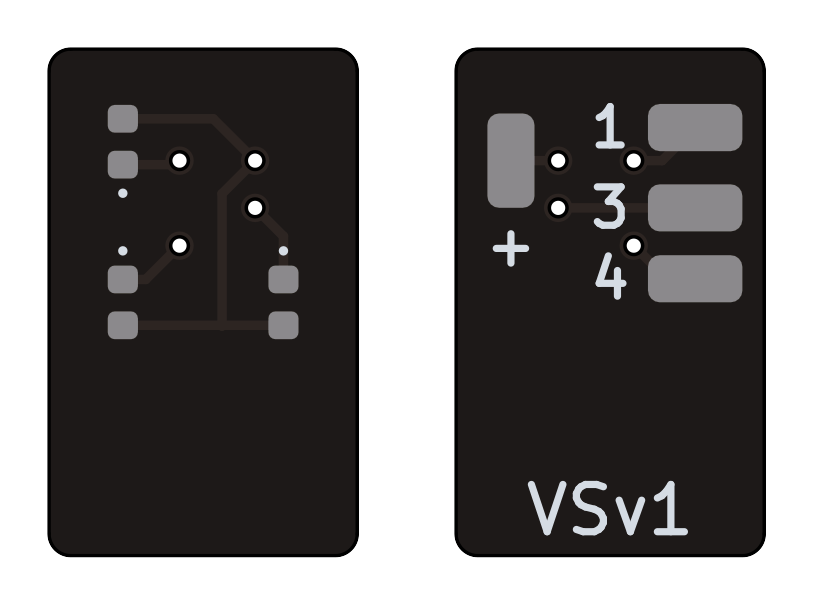
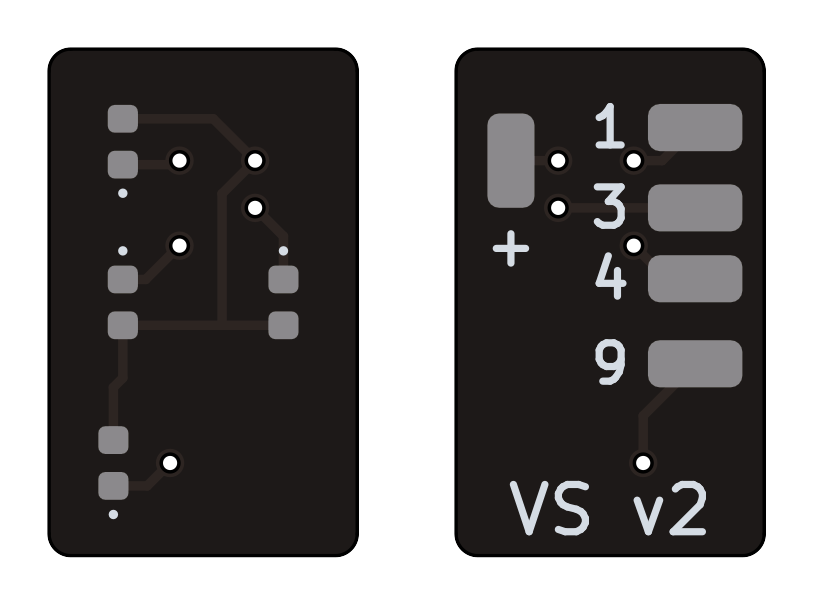
feat(VS): Add pre-signal repeater light

diff --git a/kicad/Vorsignal/README.md b/kicad/Vorsignal/README.md
@@ -1,4 +1,4 @@
-# Vorsignal VSv1
+# Vorsignal
 
 <p align="center"><img src="Vorsignal.png" width="300px"/></p>
 
@@ -10,12 +10,13 @@ Geeignet für KS-Vorsignale.
 | --------------------- | ------------------------------- |
 | ![Schema](schema.png) | ![Pin-Belegung](schema_vis.png) |
 
-| Referenz | Pin | LED      | Funktion                          |
-| -------- | --- | -------- | --------------------------------- |
-| J0       | +   |          | Stromversorgung (+)               |
-| J1       | 1   | Kaltweiß | Verkürzter Bremswegabstand (oben) |
-| J3       | 3   | Gelb     | Ks2 (Halt erwarten)               |
-| J4       | 4   | Grün     | Ks1 (Fahrt erwarten)              |
+| Referenz | Pin | LED      | Funktion                   |
+| -------- | --- | -------- | -------------------------- |
+| J0       | +   |          | Stromversorgung (+)        |
+| J1       | 1   | Kaltweiß | Verkürzter Bremswegabstand |
+| J3       | 3   | Gelb     | Ks2 (Halt erwarten)        |
+| J4       | 4   | Grün     | Ks1 (Fahrt erwarten)       |
+| J9       | 9   | Kaltweiß | Wiederholer                |
 
 ## License
 
